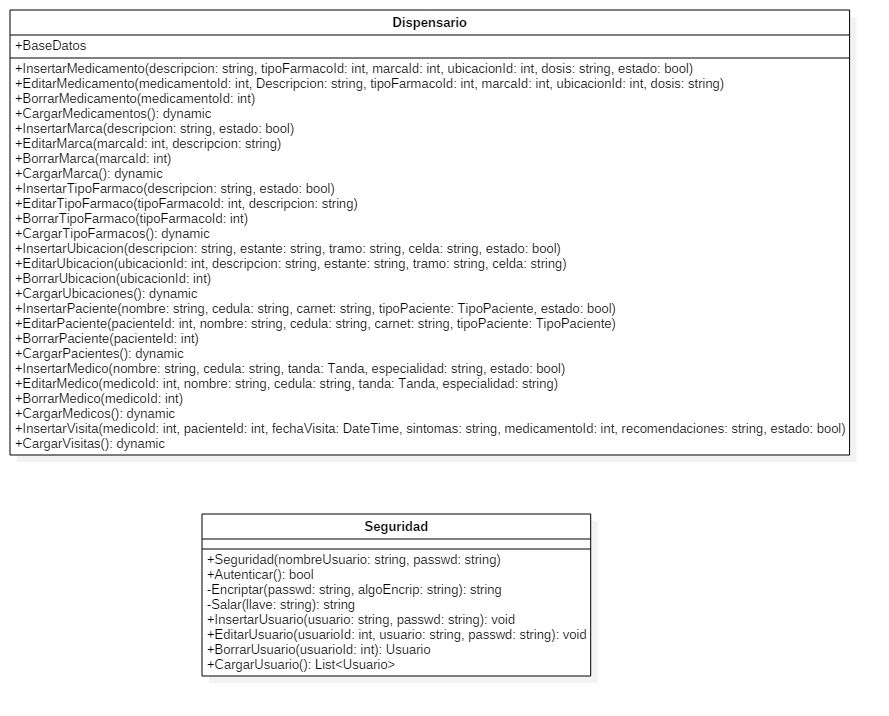
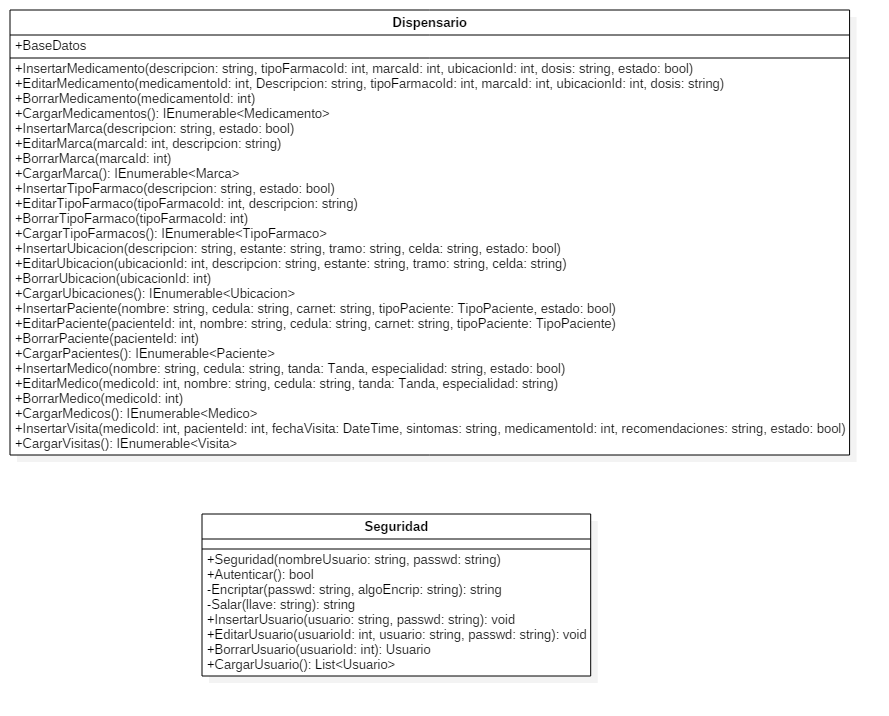
Actualizando Diagrama de Clases y agregando modelos

diff --git a/src/JMVMedica.App/JMVMedica.DataAccess/Modelos/Medicamento.cs b/src/JMVMedica.App/JMVMedica.DataAccess/Modelos/Medicamento.cs
@@ -1,0 +1,24 @@
+using System;
+using System.Collections.Generic;
+using System.Linq;
+using System.Text;
+using System.Threading.Tasks;
+
+namespace JMVMedica.DataAccess.Modelos
+{
+    public class Medicamento : ModeloBase
+    {
+        public int MedicamentoId { get; set; }
+        public string Descripcion { get; set; }
+        public int TipoFarmacoId { get; set; }
+        public int MarcaId { get; set; }
+        public int UbicacionId { get; set; }
+        public string Dosis { get; set; }
+
+        public Marca Marca { get; set; }
+        public TipoFarmaco TipoFarmaco { get; set; }
+        public Ubicacion Ubicacion { get; set; }
+
+        public virtual ICollection<Visita> Visitas { get; set; }
+    }
+}

diff --git a/src/JMVMedica.App/JMVMedica.DataAccess/Modelos/Ubicacion.cs b/src/JMVMedica.App/JMVMedica.DataAccess/Modelos/Ubicacion.cs
@@ -1,0 +1,19 @@
+using System;
+using System.Collections.Generic;
+using System.Linq;
+using System.Text;
+using System.Threading.Tasks;
+
+namespace JMVMedica.DataAccess.Modelos
+{
+    public class Ubicacion : ModeloBase
+    {
+        public int UbicacionId { get; set; }
+        public string Descripcion { get; set; }
+        public string Estante { get; set; }
+        public short Tramo { get; set; }
+        public short Celda { get; set; }
+
+        public virtual ICollection<Medicamento> Medicamentos { get; set; }
+    }
+}

diff --git a/src/JMVMedica.App/JMVMedica.DataAccess/Modelos/Paciente.cs b/src/JMVMedica.App/JMVMedica.DataAccess/Modelos/Paciente.cs
@@ -1,0 +1,19 @@
+using System;
+using System.Collections.Generic;
+using System.Linq;
+using System.Text;
+using System.Threading.Tasks;
+
+namespace JMVMedica.DataAccess.Modelos
+{
+    public class Paciente : ModeloBase
+    {
+        public int PacienteId { get; set; }
+        public string Nombre { get; set; }
+        public string Cedula { get; set; }
+        public string Carnet { get; set; }
+        public TipoPaciente TipoPaciente { get; set; }
+
+        public virtual ICollection<Visita> Visitas { get; set; }
+    }
+}

diff --git a/src/JMVMedica.App/JMVMedica.DataAccess/Modelos/Medico.cs b/src/JMVMedica.App/JMVMedica.DataAccess/Modelos/Medico.cs
@@ -1,0 +1,19 @@
+using System;
+using System.Collections.Generic;
+using System.Linq;
+using System.Text;
+using System.Threading.Tasks;
+
+namespace JMVMedica.DataAccess.Modelos
+{
+    public class Medico : ModeloBase
+    {
+        public int MedicoId { get; set; }
+        public string Nombre { get; set; }
+        public string Cedula { get; set; }
+        public TandaLabor TandaLabor { get; set; }
+        public string Especialidad { get; set; }
+
+        public virtual ICollection<Visita> Visitas { get; set; }
+    }
+}

diff --git a/src/JMVMedica.App/JMVMedica.DataAccess/Modelos/TipoFarmaco.cs b/src/JMVMedica.App/JMVMedica.DataAccess/Modelos/TipoFarmaco.cs
@@ -1,0 +1,16 @@
+using System;
+using System.Collections.Generic;
+using System.Linq;
+using System.Text;
+using System.Threading.Tasks;
+
+namespace JMVMedica.DataAccess.Modelos
+{
+    public class TipoFarmaco : ModeloBase
+    {
+        public int TipoFarmacoId { get; set; }
+        public string Descripcion { get; set; }
+
+        public virtual ICollection<Medicamento> Medicamentos { get; set; }
+    }
+}

diff --git a/src/JMVMedica.App/JMVMedica.DataAccess/Modelos/Marca.cs b/src/JMVMedica.App/JMVMedica.DataAccess/Modelos/Marca.cs
@@ -1,0 +1,16 @@
+using System;
+using System.Collections.Generic;
+using System.Linq;
+using System.Text;
+using System.Threading.Tasks;
+
+namespace JMVMedica.DataAccess.Modelos
+{
+    public class Marca : ModeloBase
+    {
+        public int MarcaId { get; set; }
+        public string Descripcion { get; set; }
+
+        public virtual ICollection<Medicamento> Medicamentos { get; set; }
+    }
+}

diff --git a/src/JMVMedica.App/JMVMedica.DataAccess/Modelos/TipoPaciente.cs b/src/JMVMedica.App/JMVMedica.DataAccess/Modelos/TipoPaciente.cs
@@ -1,0 +1,16 @@
+using System;
+using System.Collections.Generic;
+using System.Linq;
+using System.Text;
+using System.Threading.Tasks;
+
+namespace JMVMedica.DataAccess.Modelos
+{
+    public enum TipoPaciente : byte
+    {
+        Estudiante = 1,
+        Empleado,
+        Profesor,
+        Otros
+    }
+}

diff --git a/src/JMVMedica.App/JMVMedica.DataAccess/Modelos/TandaLabor.cs b/src/JMVMedica.App/JMVMedica.DataAccess/Modelos/TandaLabor.cs
@@ -1,0 +1,15 @@
+using System;
+using System.Collections.Generic;
+using System.Linq;
+using System.Text;
+using System.Threading.Tasks;
+
+namespace JMVMedica.DataAccess.Modelos
+{
+    public enum TandaLabor : byte
+    {
+        Matutina = 1,
+        Vespertina,
+        Nocturna
+    }
+}

diff --git a/src/JMVMedica.App/JMVMedica.DataAccess/Modelos/ModeloBase.cs b/src/JMVMedica.App/JMVMedica.DataAccess/Modelos/ModeloBase.cs
@@ -1,0 +1,13 @@
+using System;
+using System.Collections.Generic;
+using System.Linq;
+using System.Text;
+using System.Threading.Tasks;
+
+namespace JMVMedica.DataAccess.Modelos
+{
+    public class ModeloBase
+    {
+        public bool Estado { get; set; }
+    }
+}
